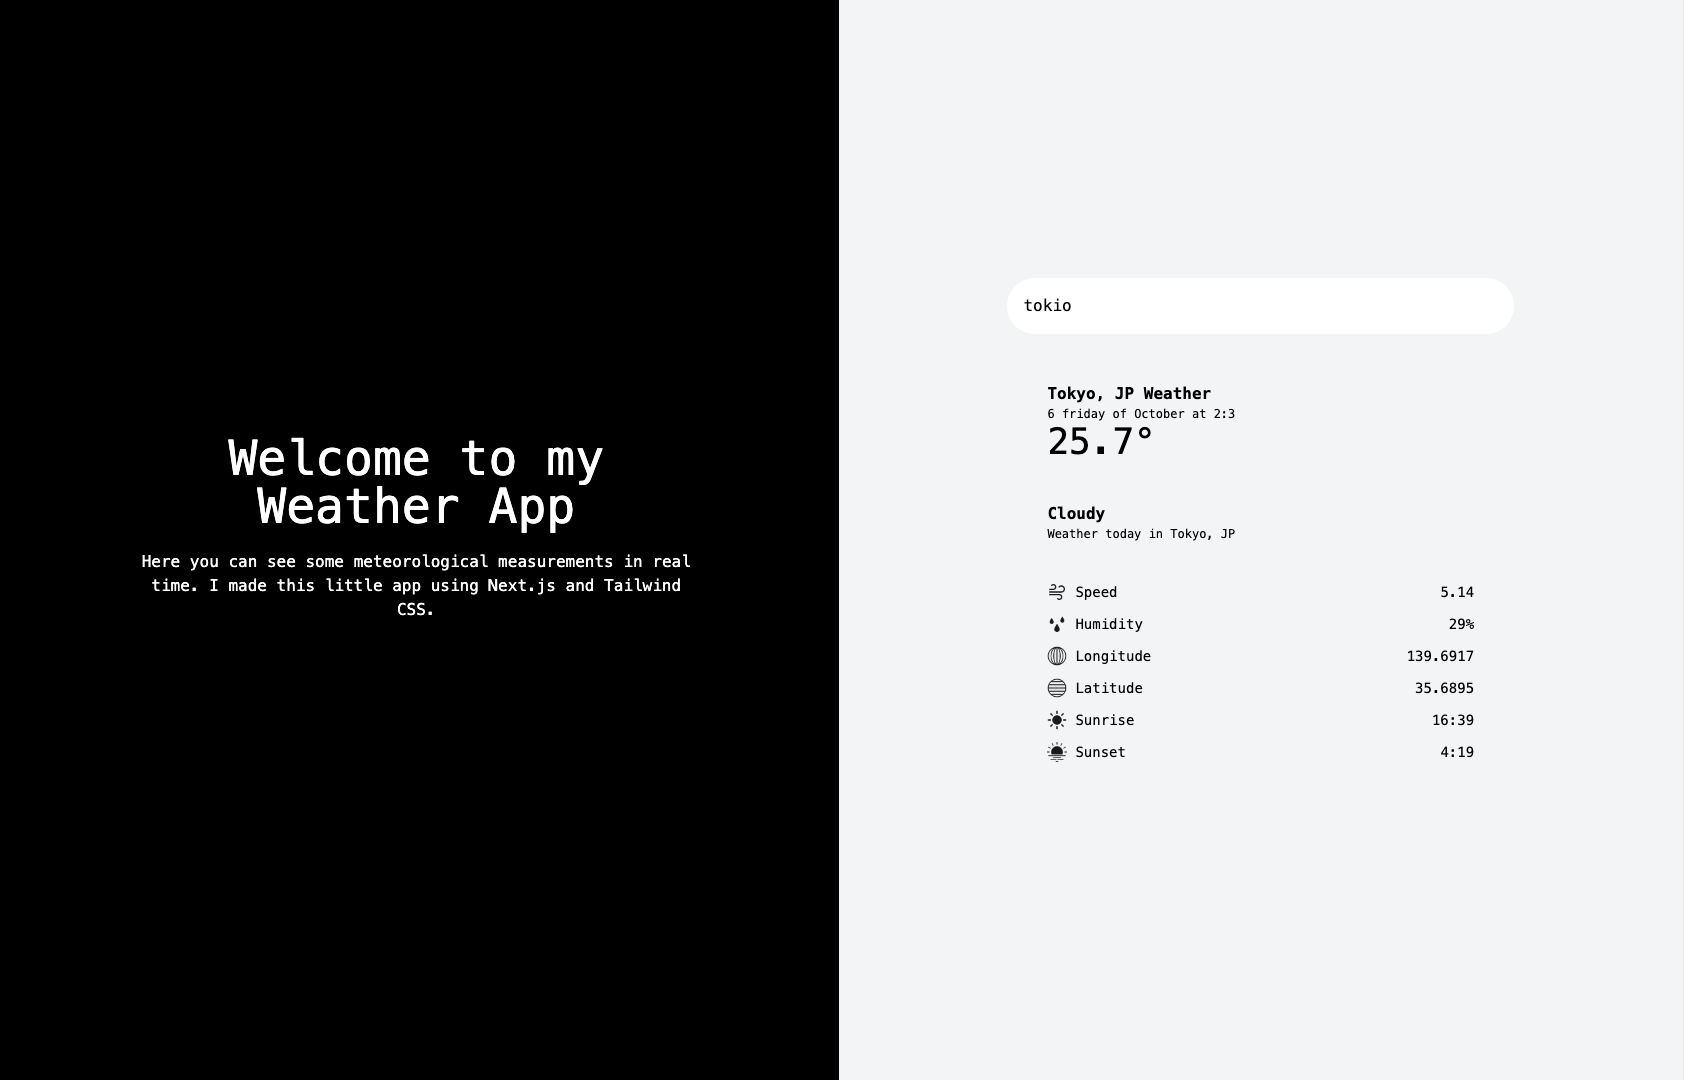
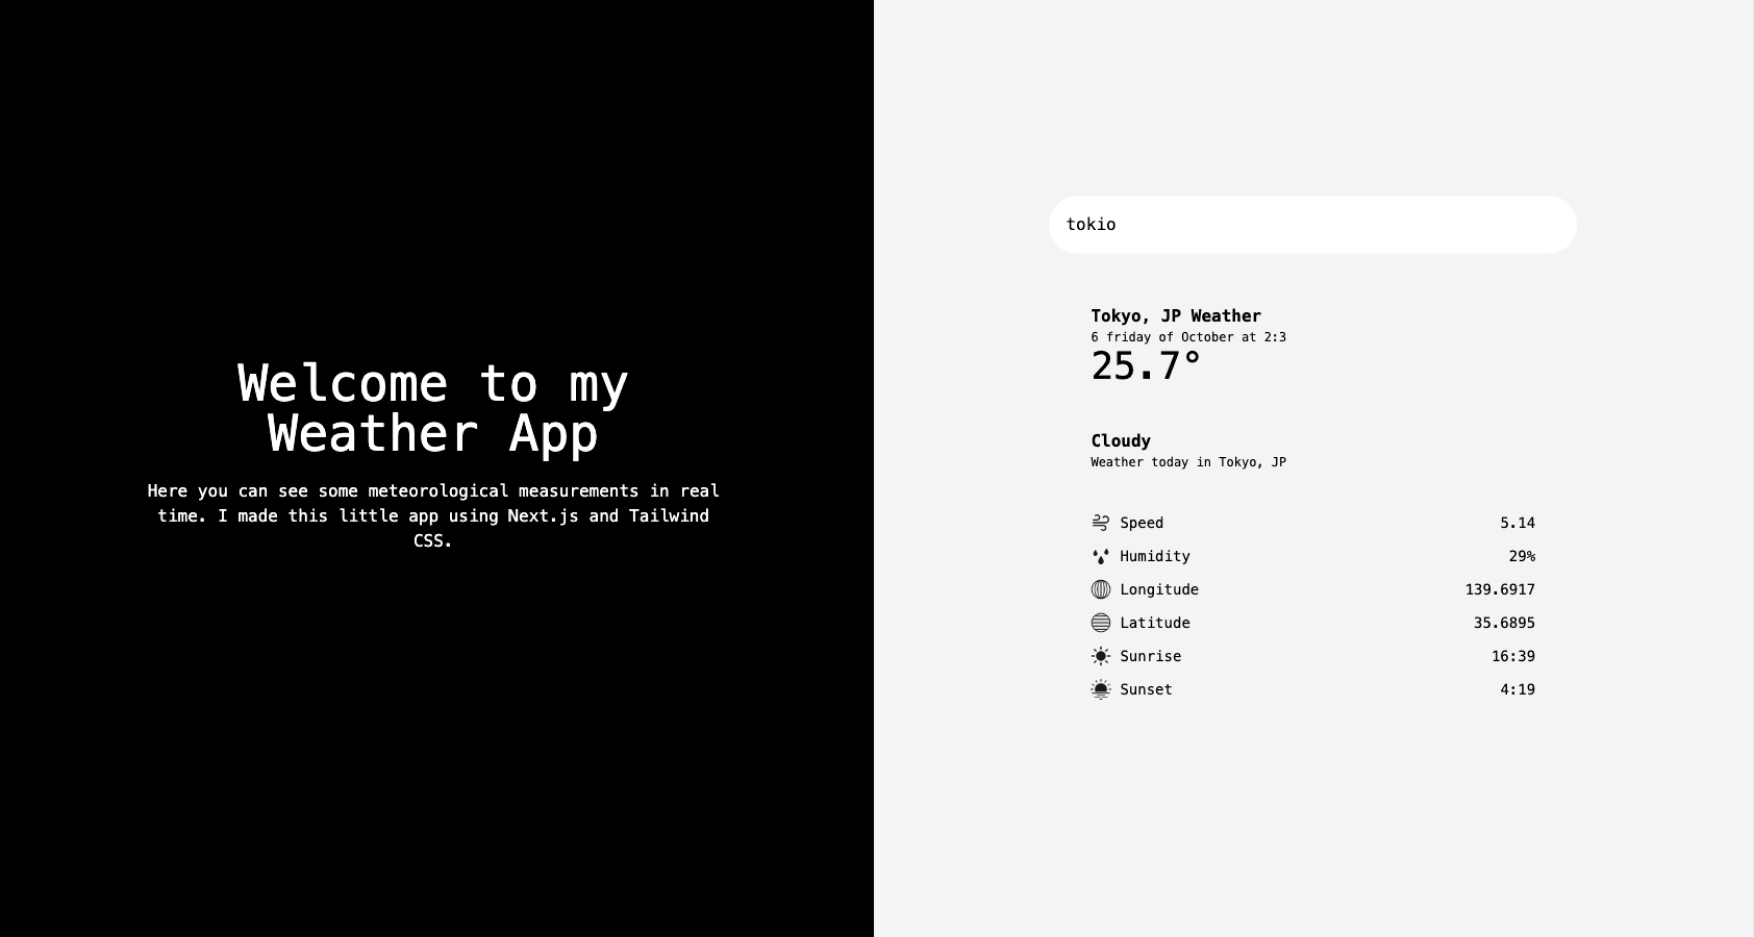
wip

diff --git a/src/pages/portafolio.tsx b/src/pages/portafolio.tsx
@@ -31,7 +31,7 @@ export default function Blog() {
       id: 1,
       title: "Weather App",
       link: "https://weatherglto.vercel.app/",
-      img: `${theme === "dark" ? "/ui/w.png" : "/ui/wl.png"}`,
+      img: `${theme === "dark" ? "/ui/qw.png" : "/ui/qwl.png"}`,
       description:
         "My weather application offers user-friendly information on current weather and future forecasts, featuring a modern interface and functionalities like dark mode for an optimal user experience.",
     },
